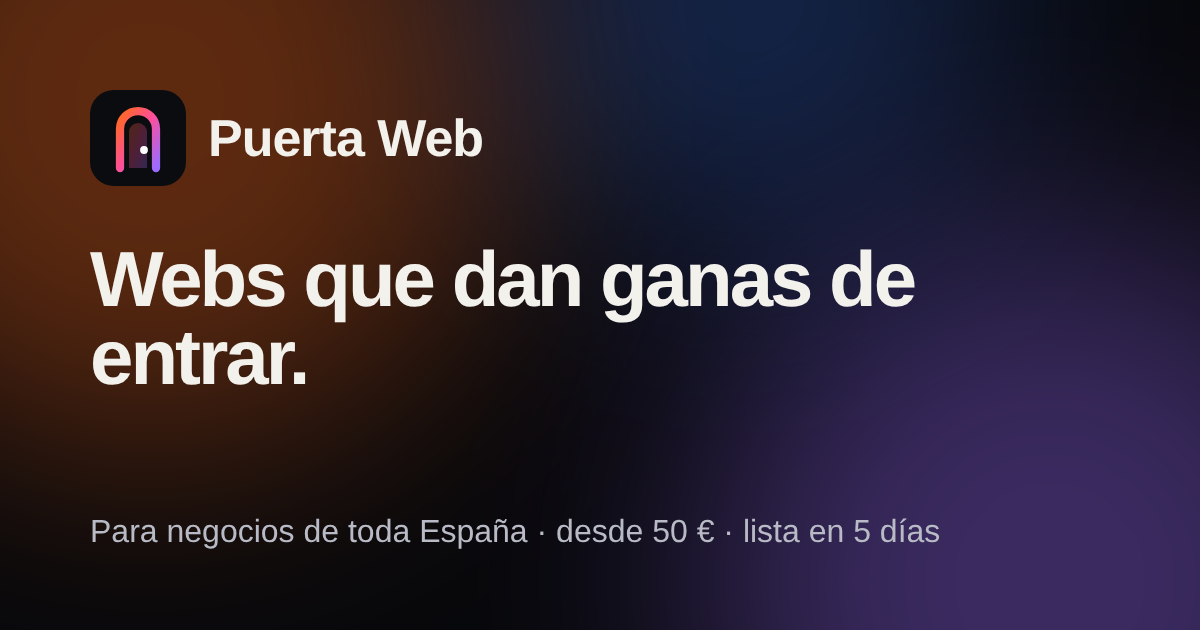
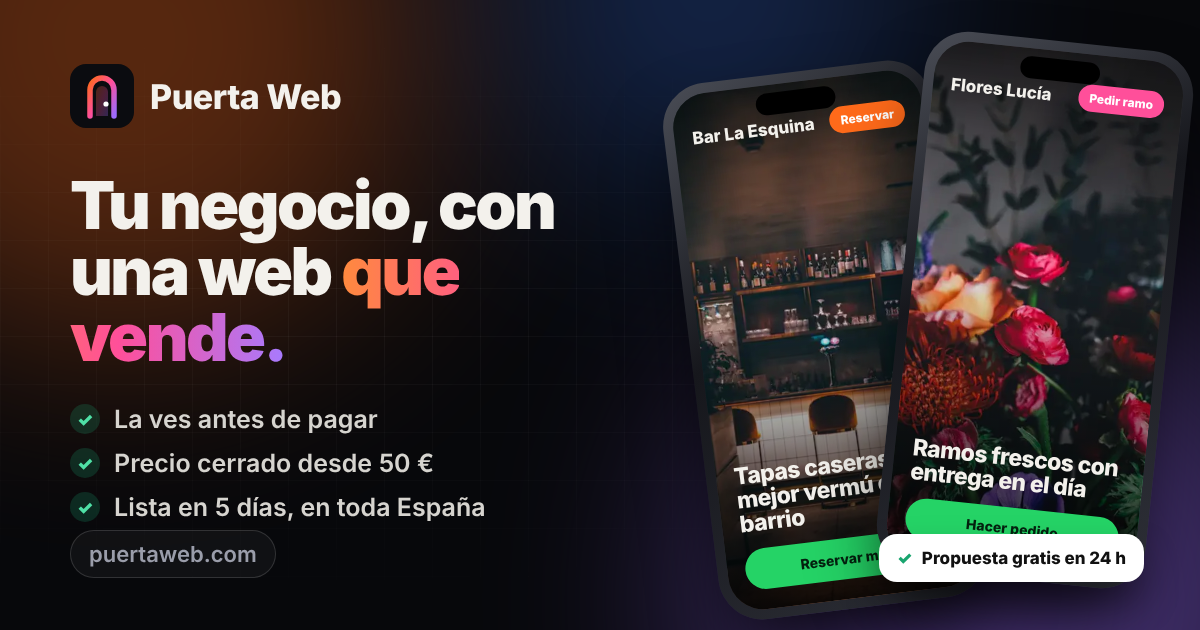
Versión móvil más corta y nueva imagen para compartir
Claude-Session: https://claude.ai/code/session_01S9MqgST1kHr59xKKt5y58a

diff --git a/index.html b/index.html
@@ -8,9 +8,9 @@
 <link rel="icon" href="favicon-32.png" sizes="32x32" type="image/png">
 <link rel="apple-touch-icon" href="apple-touch-icon.png">
 <meta name="theme-color" content="#07080b">
-<meta property="og:title" content="Puerta Web · Webs que dan ganas de entrar">
-<meta property="og:description" content="Webs para negocios de toda España desde 50 €. Lista en 5 días y la ves antes de pagar.">
-<meta property="og:image" content="https://puertaweb.com/preview.png">
+<meta property="og:title" content="Puerta Web · Tu negocio, con una web que vende">
+<meta property="og:description" content="Diseño web profesional para negocios de toda España. Propuesta gratis en 24 h, la ves antes de pagar y precio cerrado desde 50 €.">
+<meta property="og:image" content="https://puertaweb.com/preview.png?v=2">
 <meta property="og:url" content="https://puertaweb.com">
 <meta name="twitter:card" content="summary_large_image">
 <meta name="description" content="Diseño web para negocios de toda España desde 50 €. Primero la ves, luego decides.">
@@ -579,6 +579,52 @@ form#f input:focus,form#f textarea:focus{border-color:#9b6bff!important;box-shad
 .stars button:hover{transform:scale(1.15)}
 .rev-ok{color:#7ce0a4;font-weight:600}
 
+
+/* ===== Móvil: menos scroll ===== */
+.rev-toggle{margin-top:16px}
+.rev-form[hidden]{display:none!important}
+@media (max-width:700px){
+  .sec{padding-block:64px}
+  .marquee,#galeria,.wall .wrow.rev{display:none!important}
+  .wall{padding-block:56px}
+  .wall-t{font-size:2.1rem}
+  .wc{width:46vw!important}
+  /* números en una fila */
+  .nums{padding-block:56px;display:grid;grid-template-columns:repeat(3,1fr);gap:10px}
+  .num{grid-template-columns:1fr!important;border:1px solid var(--line)!important;border-radius:18px;padding:16px 12px!important;gap:6px!important;align-content:start}
+  .big{font-size:3.2rem!important}
+  .big small{display:block;font-size:.3em!important;margin-top:6px}
+  .num h3{font-size:.95rem!important;line-height:1.2}
+  .num p{display:none}
+  /* tarjetas en carrusel horizontal */
+  .rows,.plans,.steps{display:flex!important;overflow-x:auto;scroll-snap-type:x mandatory;gap:12px!important;margin-inline:-18px;padding:4px 18px 14px;scrollbar-width:none;border:0!important;border-radius:0!important}
+  .rows::-webkit-scrollbar,.plans::-webkit-scrollbar,.steps::-webkit-scrollbar{display:none}
+  .row,.plan,.step{flex:0 0 80%;scroll-snap-align:center}
+  .row{grid-template-columns:1fr!important;min-height:0}
+  .row .viz{width:100%;aspect-ratio:2.4}
+  .plan{border:1px solid var(--line)!important;border-radius:20px}
+  .plan[aria-checked="true"]{border-color:var(--pc)!important}
+  .step{border:1px solid var(--line);border-radius:18px;padding:20px!important}
+  .steps::before{display:none}
+  .swipe{display:block!important}
+  .feat .stick h2,.sec-h h2,.qr-t,.c-grid h2,.ba-top h2{font-size:2.3rem!important}
+  .sec-h{margin-bottom:22px}
+  .sec-h p,.feat .stick p{font-size:1rem}
+  /* carta QR más compacta */
+  .qr-stage{height:300px}
+  .qr-card{width:44%;padding:12px}
+  .qr-txt p:not(.qr-try){display:none}
+  /* precios */
+  .launch>div{padding:18px}
+  .launch .lt span{display:none}
+  .ex{padding:8px 12px;font-size:.85rem}
+  /* contacto */
+  .c-steps{display:none}
+  .c-grid{gap:22px}
+  .faq summary{padding:16px 0;font-size:1rem}
+}
+.swipe{display:none;color:var(--dim);font-size:.85rem;margin:-6px 0 6px}
+
 @media (prefers-reduced-motion:reduce){*{transition:none!important;animation:none!important}}
 </style>
 </head>
@@ -676,6 +722,7 @@ form#f input:focus,form#f textarea:focus{border-color:#9b6bff!important;box-shad
         <h2>Lo que lleva tu web.</h2>
         <p>Lo justo para que un cliente que te encuentra en Google acabe escribiéndote. Nada de relleno.</p>
       </div>
+      <p class="swipe">Desliza para ver más →</p>
       <div class="rows">
         <div class="row"><div><h3>Abierto o cerrado, en directo</h3><p>Tu horario se actualiza solo. El cliente sabe al momento si puede ir ahora.</p></div>
           <div class="viz v-open" aria-hidden="true"><div style="text-align:center"><b id="vClock">--:--</b><br><span id="vState">● Abierto ahora</span></div></div></div>
@@ -720,6 +767,7 @@ form#f input:focus,form#f textarea:focus{border-color:#9b6bff!important;box-shad
           <a class="btn light" id="launchBtn" href="#contacto">Quiero una plaza</a></div>
         </div>
       </div>
+      <p class="swipe">Desliza para ver los planes →</p>
       <div class="plans" role="radiogroup" aria-label="Pack">
         <button class="plan" type="button" role="radio" aria-checked="false" data-pack="basica">
           <span class="pn">Básica</span>
@@ -765,6 +813,7 @@ form#f input:focus,form#f textarea:focus{border-color:#9b6bff!important;box-shad
   <section class="sec" id="proceso" style="padding-top:0">
     <div class="wrap">
       <div class="sec-h"><h2>Cómo trabajo.</h2></div>
+      <p class="swipe">Desliza →</p>
       <div class="steps">
         <div class="step"><span class="when">Día 1</span><h3>Hablamos</h3><p>Me cuentas tu negocio por WhatsApp o videollamada. Te doy un precio cerrado.</p></div>
         <div class="step"><span class="when">Día 2</span><h3>Primera versión</h3><p>Te enseño la web en tu móvil. Hasta aquí no pagas nada.</p></div>
@@ -778,7 +827,8 @@ form#f input:focus,form#f textarea:focus{border-color:#9b6bff!important;box-shad
     <div class="wrap">
       <div class="sec-h"><h2>Lo que dicen.</h2><p id="revNote">Puerta Web acaba de abrir. Aquí aparecerán las opiniones reales de mis primeros clientes, con su nombre y su negocio.</p></div>
       <div class="reviews" id="revList"></div>
-      <form class="rev-form" id="rf" novalidate>
+      <button class="btn rev-toggle" type="button" id="rfOpen">Dejar mi opinión</button>
+      <form class="rev-form" id="rf" novalidate hidden>
         <h3>¿Has trabajado conmigo? Deja tu opinión</h3>
         <p class="sub">La reviso y la publico aquí con tu nombre y tu negocio.</p>
         <input type="hidden" name="_subject" value="Nueva opinión para Puerta Web"><input type="hidden" name="_captcha" value="false"><input type="hidden" name="_template" value="table">
@@ -1019,6 +1069,7 @@ form#f input:focus,form#f textarea:focus{border-color:#9b6bff!important;box-shad
 
 
   /* Dejar opinión */
+  $("rfOpen").addEventListener("click",()=>{$("rf").hidden=false;$("rfOpen").remove();$("rName").focus();});
   const stars=[...document.querySelectorAll("#stars button")];
   stars.forEach(b=>b.addEventListener("click",()=>{const v=+b.dataset.v;$("rStars").value=v+"/5";stars.forEach(x=>{x.classList.toggle("on",+x.dataset.v<=v);x.setAttribute("aria-checked",+x.dataset.v===v);});}));
   $("rf").addEventListener("submit",async e=>{e.preventDefault();const m=$("rMsg");m.className="f-msg";
